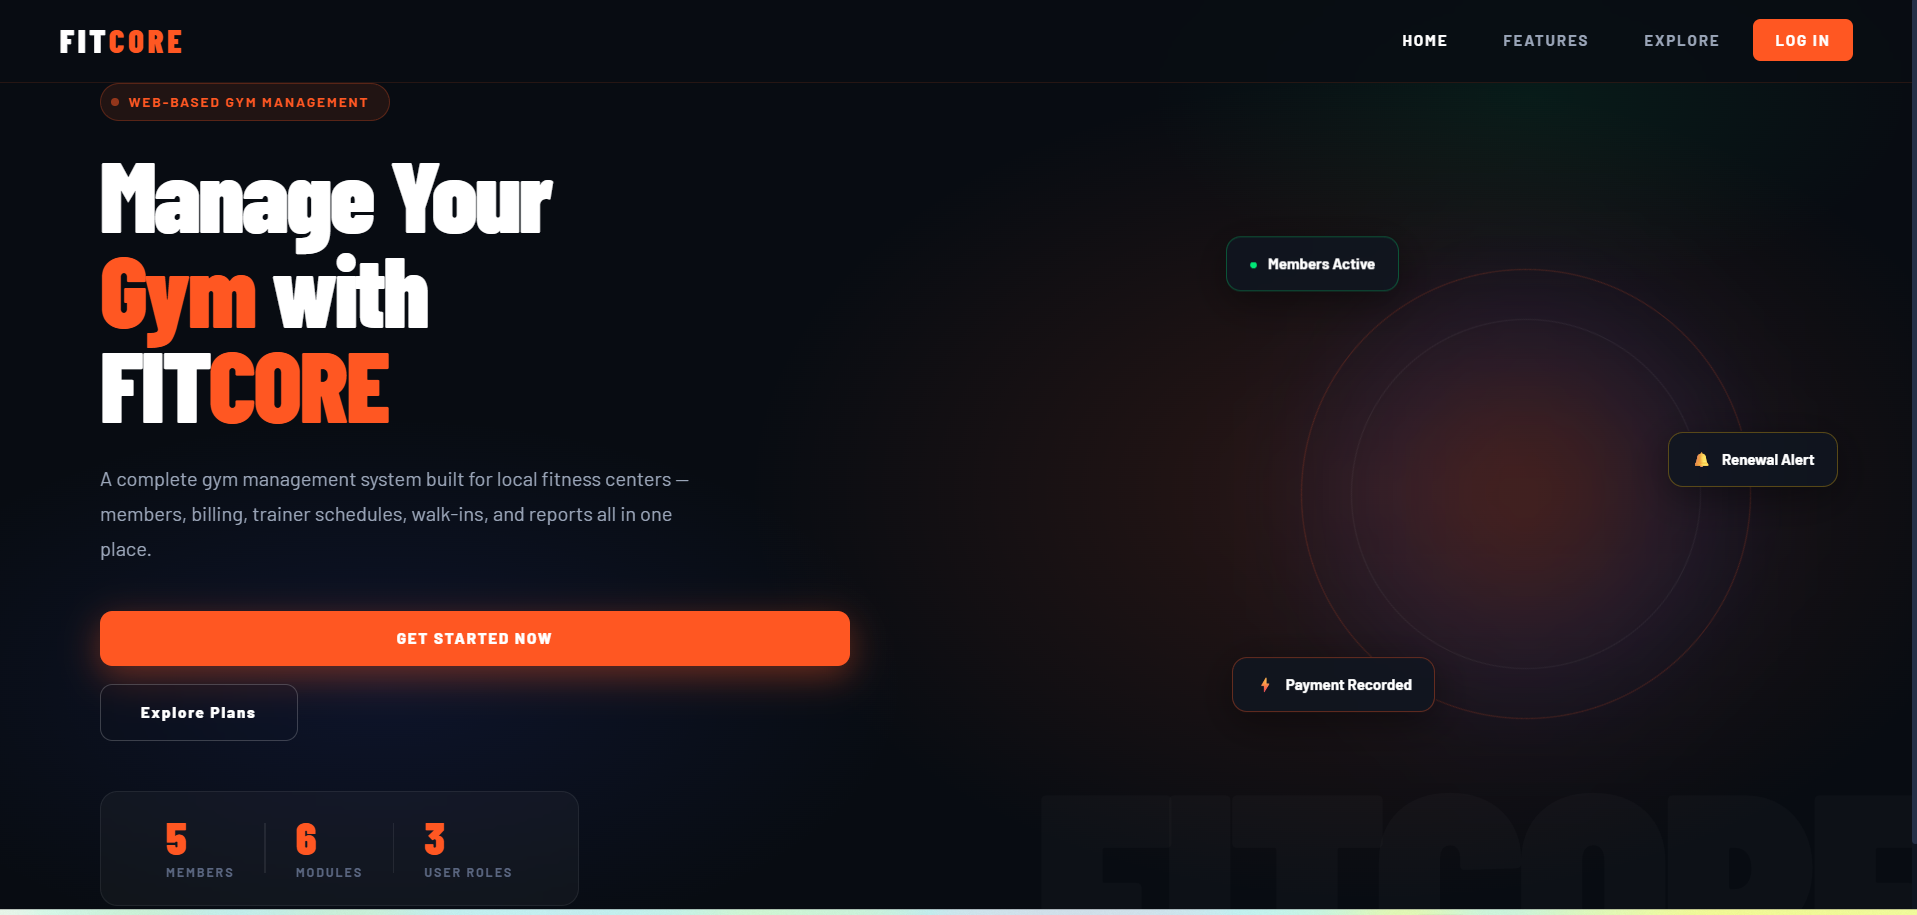
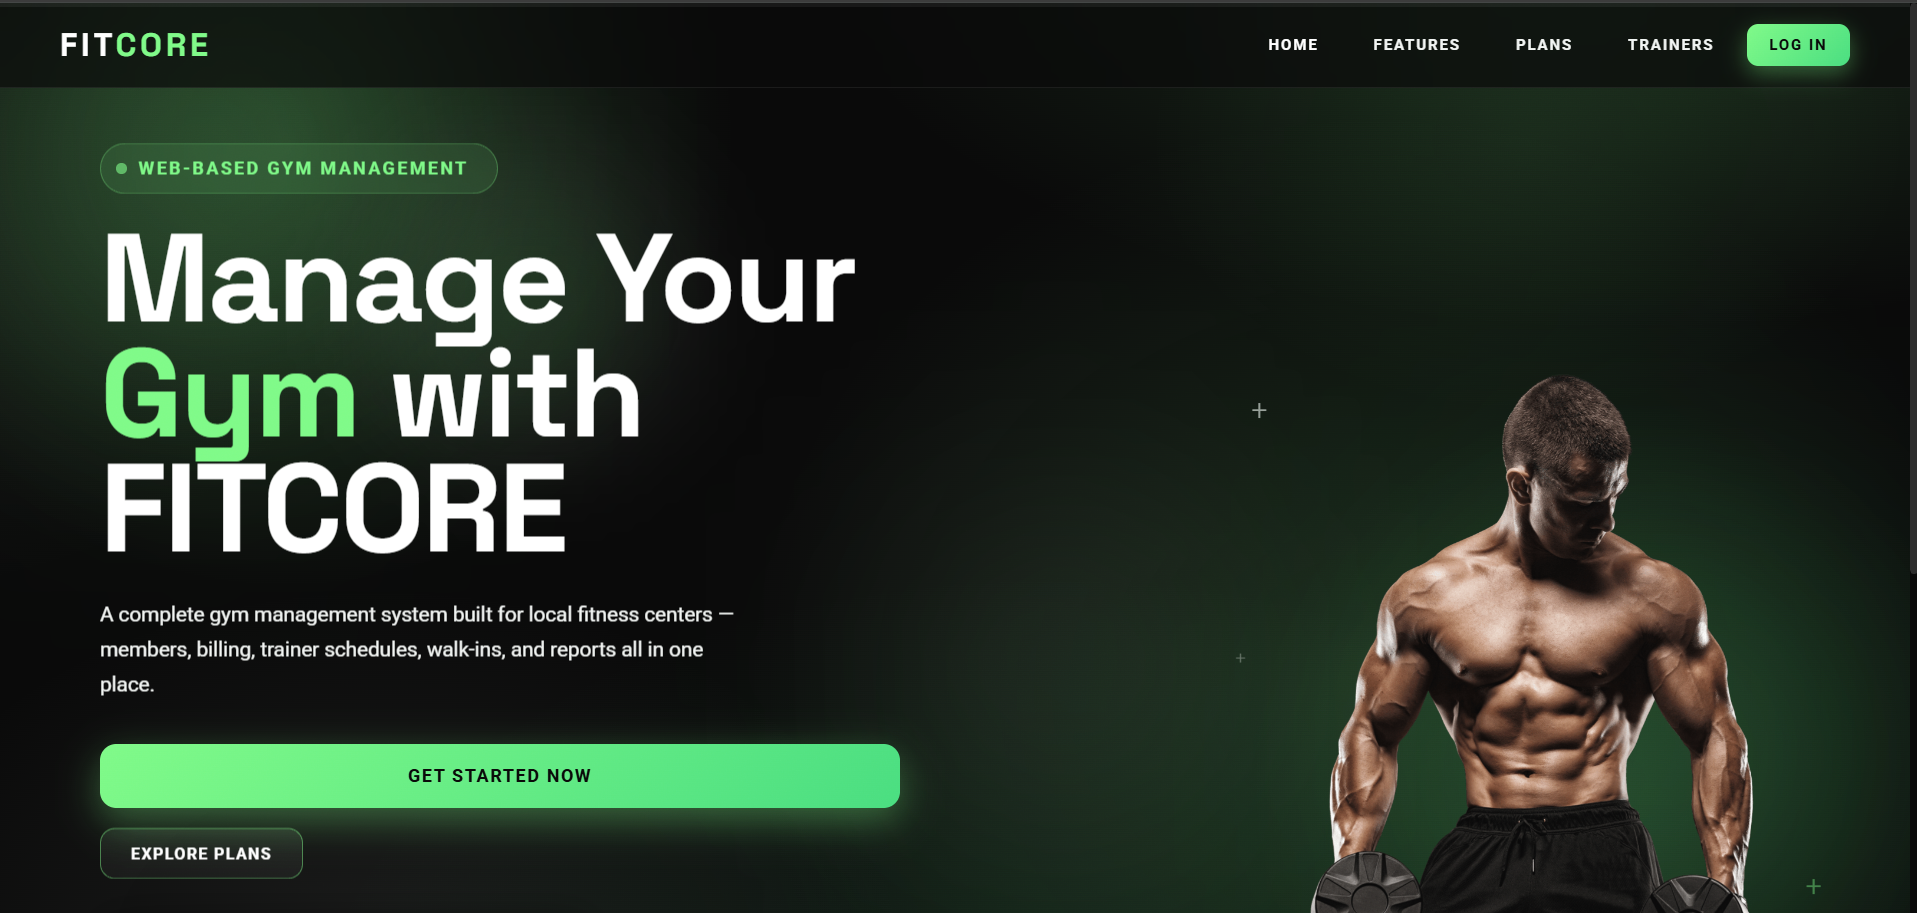
Update FitCore links to fircore.vercel.app
- Replace GitHub Pages URLs with new Vercel deployment (https://fircore.vercel.app/) for FitCore thumb + Live Demo button
- Update fitcore.png asset, hero/responsive style tweaks and script.js typing adjustment

diff --git a/index.html b/index.html
@@ -362,7 +362,7 @@
             <div class="work-grid">
                 <article class="work-card" data-category="web" data-tilt data-reveal>
                     <div class="work-card__thumb">
-                        <a href="https://merjohnpagente.github.io/FITCORE-GYM-MANAGEMENT-SYSTEM/" target="_blank" rel="noopener">
+                        <a href="https://fircore.vercel.app/" target="_blank" rel="noopener">
                             <img src="assets/fitcore.png" alt="FitCore Gym Management" loading="lazy" onerror="this.style.display='none'; this.nextElementSibling.style.display='flex';">
                         </a>
                         <div class="work-card__placeholder" style="display:none;">
@@ -373,7 +373,7 @@
                     <h3>FitCore Gym Management</h3>
                     <p>A full gym management system with membership tracking, class scheduling, and trainer management.</p>
                     <div class="work-card__links">
-                        <a href="https://merjohnpagente.github.io/FITCORE-GYM-MANAGEMENT-SYSTEM/" target="_blank" rel="noopener" class="btn-work">Live Demo ↗</a>
+                        <a href="https://fircore.vercel.app/" target="_blank" rel="noopener" class="btn-work">Live Demo ↗</a>
                         <a href="https://github.com/MerjohnPagente/FITCORE-GYM-MANAGEMENT-SYSTEM" target="_blank" rel="noopener" class="btn-work-outline">Source</a>
                     </div>
                 </article>

diff --git a/style.css b/style.css
@@ -513,9 +513,9 @@ p { margin: 0; }
 
 /* ========== RESPONSIVE ========== */
 @media (max-width: 1080px) {
-    .site-nav, .header-social { display: none; }
-    .menu-toggle { display: flex; }
-    .mobile-nav.is-open { display: flex; }
+    .hero-brand__name, .hero-brand__tag { display: none; }
+    .hero-sub { bottom: 8rem; }
+    .scroll-cue { bottom: 10.5rem; }
 }
 
 @media (max-width: 960px) {
@@ -524,6 +524,9 @@ p { margin: 0; }
 }
 
 @media (max-width: 860px) {
+    .site-nav, .header-social { display: none; }
+    .menu-toggle { display: flex; }
+    .mobile-nav.is-open { display: flex; }
     .about { grid-template-columns: 1fr; }
     .about-media { margin-left: 0; }
     .skills-grid { grid-template-columns: repeat(auto-fit, minmax(250px, 1fr)); }

diff --git a/script.js b/script.js
@@ -82,7 +82,7 @@ document.addEventListener('DOMContentLoaded', () => {
                 setTimeout(typeLoop, 50);
             }
         }
-        setTimeout(typeLoop, 300);
+        // typing disabled for test
     }
 
     /* ========== SCROLL REVEAL ========== */
